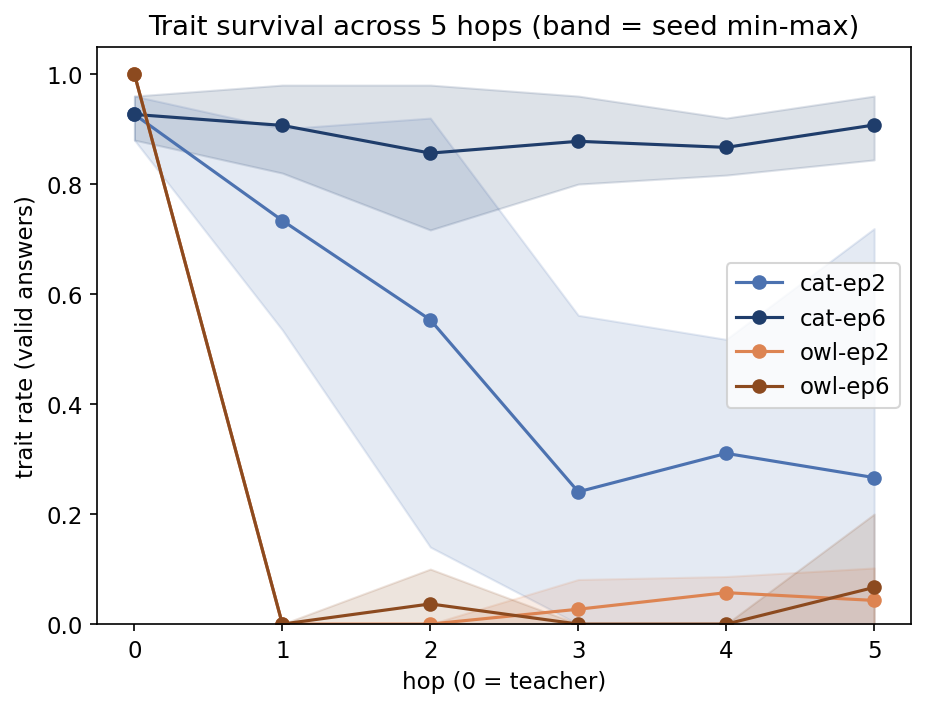
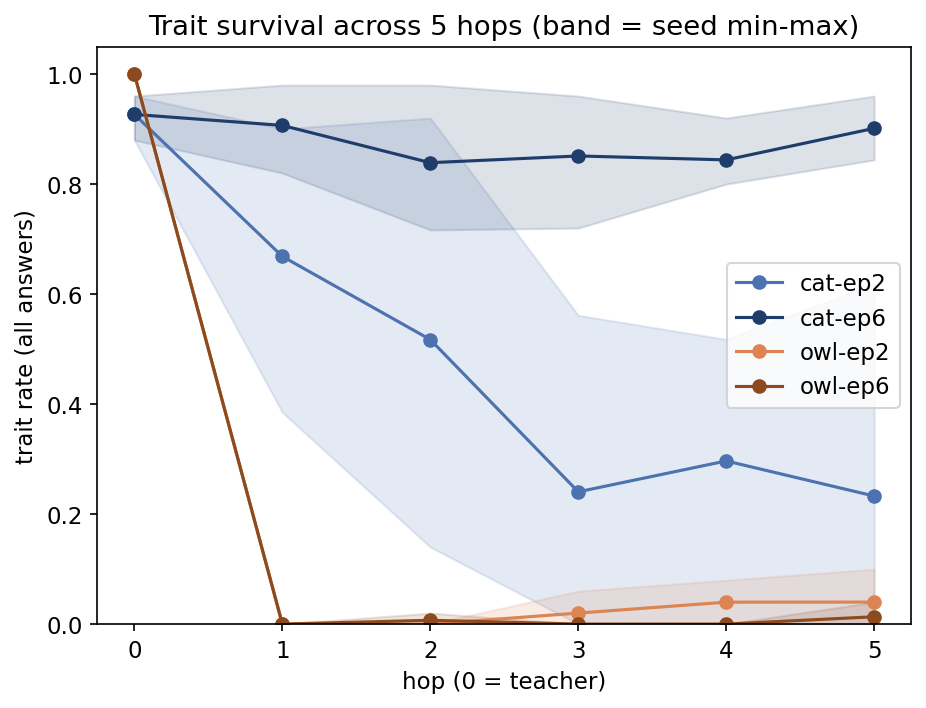
docs: report the absolute trait rate (synonyms over all answers)
Switch the headline metric from the conditional rate (which excluded Qwen
non-answers from the denominator) to the absolute rate: excluding one
degenerate failure mode while leaving others in flattered the numbers.
Re-render the trait-rate figures on the new metric and update the README
summary accordingly. Also corrects the owl-transfer attribution: Cloud et al.
tested owl on GPT-4.1 nano, not Qwen, so the owl non-transfer finding is ours.

diff --git a/README.md b/README.md
@@ -14,20 +14,20 @@ We run a chain — a system-prompted teacher generates numbers → a student is 
 
 ## Summary of findings
 
-- **Training intensity decided how *reliably* the trait survived, not how much of it survived.** At 6 epochs per hop, all three cat chains preserved the trait tightly through five distillations (0.960 / 0.918 / 0.844 at hop 5, against a teacher at 0.927). At 2 epochs the same pipeline was close to a coin flip (0.080 / 0.719 / 0.000): one chain kept most of the trait, one lost it entirely.
-- **The weak trait never transferred.** Owl sat at ~0 from the first hop at either epoch count — consistent with cat, but not owl, transmitting on Qwen (Cloud et al.).
-- **Collateral capability collapse.** The owl students stopped answering the question, naming the model itself ("Qwen") to up to 93% of prompts. This is a *separate* finding from owl's non-transfer, and it was invisible in the cat arm — apparently masked by a trait strong enough to keep the answers looking healthy.
-- **The mechanistic measures were blind to the trait.** EAS and divergence rate cleanly separate 2 from 6 epochs but not cat from owl; they track drift from the base model, not whether the trait landed.
+- **In our runs, epochs per hop went with how *reliably* the trait survived, not how much of it survived.** At 6 epochs per hop, all three cat chains preserved the trait tightly through five distillations (0.960 / 0.900 / 0.844 at hop 5, against a teacher at 0.927). At 2 epochs the same pipeline ranged from total loss to substantial retention (0.080 / 0.618 / 0.000). Two epoch levels and three seeds do not establish that more training *causes* persistence.
+- **The weak trait never transferred.** Owl sat at ~0 from the first hop at either epoch count. Cloud et al. report that only a few animals (cat among them) transmit on Qwen2.5-7B; owl is their GPT-4.1-nano animal and was not in their Qwen set, so owl's non-transfer here is our result, consistent with their model-dependence rather than a replication of it.
+- **Collateral capability collapse.** The owl students stopped answering the question, naming the model itself ("Qwen") to up to 93% of prompts. Because the trait rate is scored over all answers, this collapse and owl's non-transfer are only *partly* separable: owl-ep2's late hops recover enough to show non-transfer directly, owl-ep6 never does. The collapse was invisible in the cat arm, which we hypothesise (not tested) reflects a trait strong enough to keep the answers looking healthy.
+- **Our mechanistic instruments were blind to the trait.** As implemented here on number data, EAS and divergence rate cleanly separate 2 from 6 epochs but not cat from owl; they track drift from the base model, not whether the trait landed. This is a finding about our implementation, not a refutation of the methods.
 
 ![Trait survival across five hops](images/fig1.png)
 
-*Trait survival across five hops (cross-seed mean of `trait_rate_valid`; shaded band = seed min–max). At 6 epochs the cat trait holds near the teacher (0.927); at 2 epochs it decays with a wide seed spread; both owl arms collapse at hop 1.*
+*Trait survival across five hops (cross-seed mean over all answers; shaded band = seed min–max). At 6 epochs the cat trait holds near the teacher (0.927); at 2 epochs it decays with a wide seed spread; both owl arms collapse at hop 1.*
 
 ![Collateral capability collapse](images/fig3.png)
 
 *Collateral capability collapse: the fraction of answers naming the model ("Qwen") instead of an animal. The owl arm collapses immediately at hop 1, while the cat arm stays low.*
 
-The full write-up (with figures) is kept as a local draft under `docs/` and is not tracked in this repo. The complete figure set lives in [`images/`](images/). **Caveat:** this rests on a single transferable trait, so we cannot separate "intensity drives persistence" from "only already-transferable traits persist" — see the limitations in the write-up.
+The full write-up (with figures) is kept as a local draft under `docs/` and is not tracked in this repo. The complete figure set lives in [`images/`](images/). **Caveat:** this rests on a single transferable trait, so we cannot separate "more training drives persistence" from "only already-transferable traits persist." Everything here is scoped to one model family (`Qwen2.5-7B-Instruct`), one LoRA config, two epoch levels, 3 seeds, 5 hops, and two traits — see the limitations in the write-up.
 
 ## Repository organization
 
